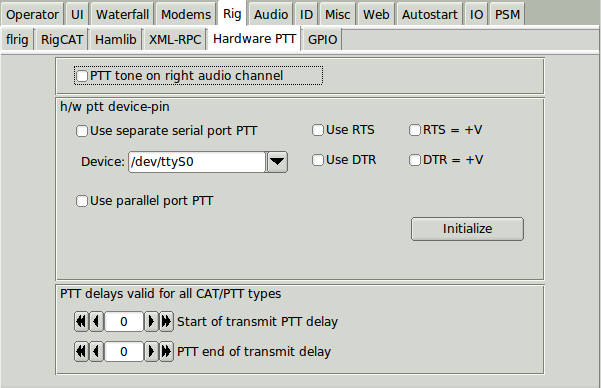
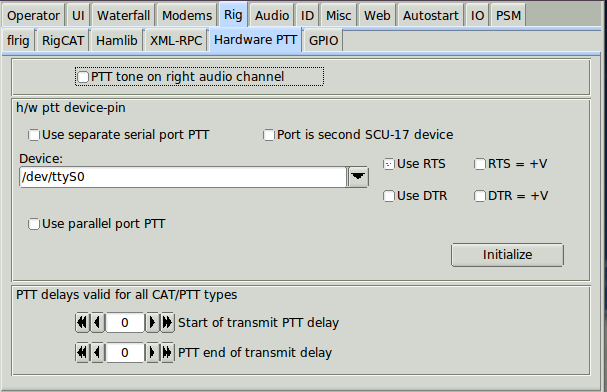
SCU-17 ptt
* Add SCU-17 select for separate serial port PTT.
    SCU-17 second COM port requires stop bits to be set
    to ZERO, or the Windows driver fails to give access
    to the DTR / RTS controls.

Changed region(s): [[0.0, 0.0, 1.0, 1.0], [0.629, 0.4639, 0.7488, 0.5258]]

diff --git a/src/include/configuration.h b/src/include/configuration.h
@@ -1141,6 +1141,9 @@
         ELEM_(bool, DTRplus, "DTRPLUS",                                                 \
               "Initial voltage on DTR is +V",                                           \
               false)                                                                    \
+        ELEM_(bool, SCU_17, "SCU_17",                                                   \
+              "Serial port is SCU-17 (requires 0 stop bits",                            \
+              false)                                                                    \
         ELEM_(bool, PTTrightchannel, "PTTRIGHTCHANNEL",                                 \
               "Generate PTT signal on right audio channel",                             \
               false)                                                                    \

diff --git a/src/include/serial.h b/src/include/serial.h
@@ -71,7 +71,14 @@ public:
 	void RestoreTIO(bool b) { restore_tio = b; }
 	bool RestoreTIO() { return restore_tio; }
 
-	void Stopbits(int n) {stopbits = (n == 1 ? 1 : 2);}
+	void Stopbits(int n) {
+		switch (n) {
+			case 0: stopbits = 0; break;
+			case 1: stopbits = 1; break;
+			case 2:
+			default: stopbits = 2; break;
+		}
+	}
 	int  Stopbits() { return stopbits;}
 
 	int  ReadBuffer (unsigned char *b, int nbr);
@@ -180,7 +187,14 @@ public:
 	void RestoreTIO(bool b) { restore_tio = b; }
 	bool RestoreTIO() { return restore_tio; }
 
-	void Stopbits(int n) {stopbits = (n == 1 ? 1 : 2);}
+	void Stopbits(int n) {
+		switch (n) {
+			case 0: stopbits = 0; break;
+			case 1: stopbits = 1; break;
+			case 2:
+			default: stopbits = 2; break;
+		}
+	}
 	int  Stopbits() { return stopbits;}
 
 //Members

diff --git a/src/include/confdialog.h b/src/include/confdialog.h
@@ -601,13 +601,14 @@ extern Fl_Check_Button *btnPTTrightchannel;
 extern Fl_Group *grpHWPTT;
 extern Fl_Round_Button *btnTTYptt;
 extern Fl_ComboBox *inpTTYdev;
+extern Fl_Round_Button *btnSCU_17;
+extern Fl_Round_Button *btnUsePPortPTT;
+extern Fl_Round_Button *btnUseUHrouterPTT;
 extern Fl_Round_Button *btnRTSptt;
 extern Fl_Round_Button *btnRTSplusV;
 extern Fl_Round_Button *btnDTRptt;
 extern Fl_Round_Button *btnDTRplusV;
 extern Fl_Button *btnInitHWPTT;
-extern Fl_Round_Button *btnUsePPortPTT;
-extern Fl_Round_Button *btnUseUHrouterPTT;
 extern Fl_Group *grpPTTdelays;
 extern Fl_Counter *cntPTT_on_delay;
 extern Fl_Counter *cntPTT_off_delay;
